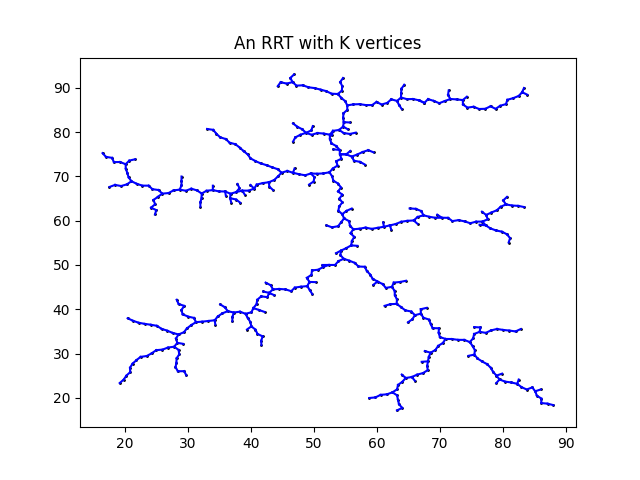
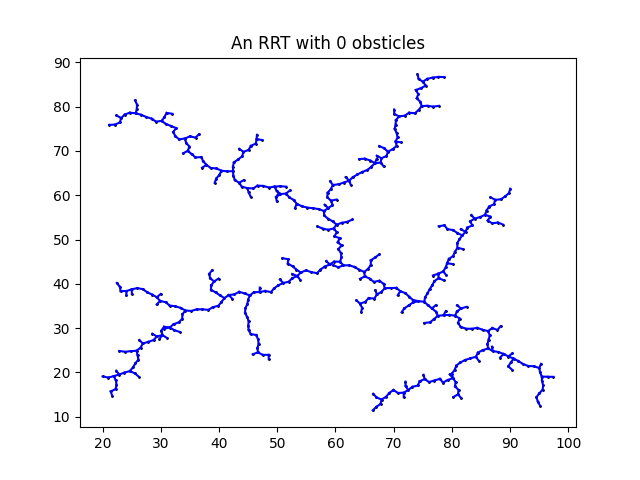
update images titles

diff --git a/random_tree.py b/random_tree.py
@@ -15,7 +15,7 @@ class RANDOM_TREE:
         self.q_new = []
         self.q_goal = []
         self.obsticles = []
-        self.number_of_obsticles = 20
+        self.number_of_obsticles = 0
 
 
     def RRT_generator(self):
@@ -32,7 +32,7 @@ class RANDOM_TREE:
                 self.K = self.K-1
                 plt.plot([self.q_near[0], self.q_new[0]], [self.q_near[1], self.q_new[1]], color='blue', markersize=1)
                 plt.scatter(self.q_new[0], self.q_new[1], color='black', s=1)
-        plt.title('An RRT with K vertices')  
+        plt.title(f'An RRT with {self.number_of_obsticles} obsticles')  
         plt.show() 
 
 
